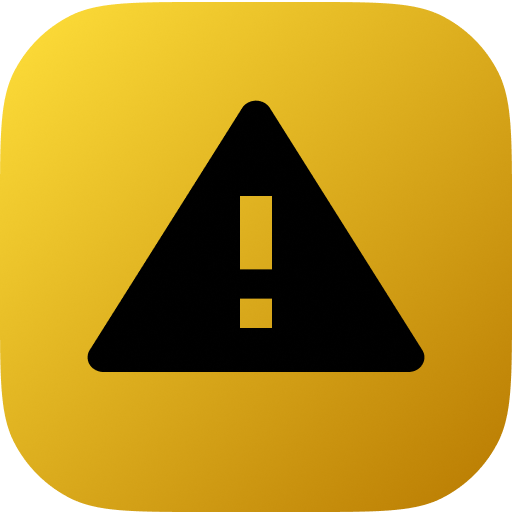
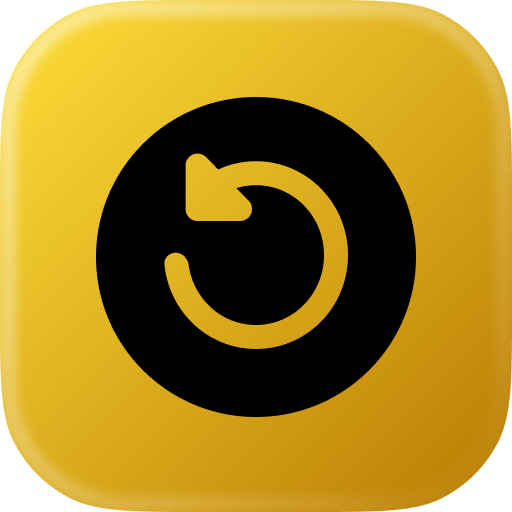
- Updated README.md
- Added new extension images in README

- Changed the command icon

Changed region(s): [[0.1562, 0.1875, 0.8438, 0.8125], [0.0, 0.0, 1.0, 1.0]]

diff --git a/README.md b/README.md
@@ -1,17 +1,37 @@
 # Restart Raycast
 
-This Raycast extension allows you to restart Raycast, releasing its RAM usage.
+A small Raycast extension that quits and relaunches Raycast to clear its RAM usage. It uses a short AppleScript under the hood and does nothing else.
+If you’ve ever seen Raycast climb to hundreds of megabytes (or more), this gives you a quick reset button.
+
+## Requirements
+
+Before installing, make sure you have:
+
+- Raycast 1.26.0 or higher
+
+- [Node.js 22.14](https://nodejs.org/en) or higher. If you don’t have Node, the easiest way is to install it with [nvm](https://github.com/nvm-sh/nvm).
+
+- [npm](https://www.npmjs.com/) 7 or higher (comes with Node)
 
 ## Usage
 
-1. Clone the repository locally on your machine.
+1. Clone the repository locally on your computer.
 
-2. Open Raycast and go to "Import Extension".
+2. Open Raycast and choose **Import Extension**.
 
-3. Run `npm install` and `npm run build` to activate the extension.
+3. Inside the project folder, run:
+    - `npm install`
+    - `npm run build`
 
-4. Launch the "Restart Raycast" command directly from Raycast.
+4. After that, the command **Restart Raycast** will appear in Raycast. Run it whenever Raycast starts consuming too much RAM.
 
 ### Notes
 
-- This extension works **on macOS only**.
+- Works on macOS only.
+
+- The restart uses Raycast’s normal quit flow. It doesn’t force-quit anything.
+
+------------------------
+
+![Command view](./assets/image.png)
+![Confirmation dialog](./assets/image-1.png)
